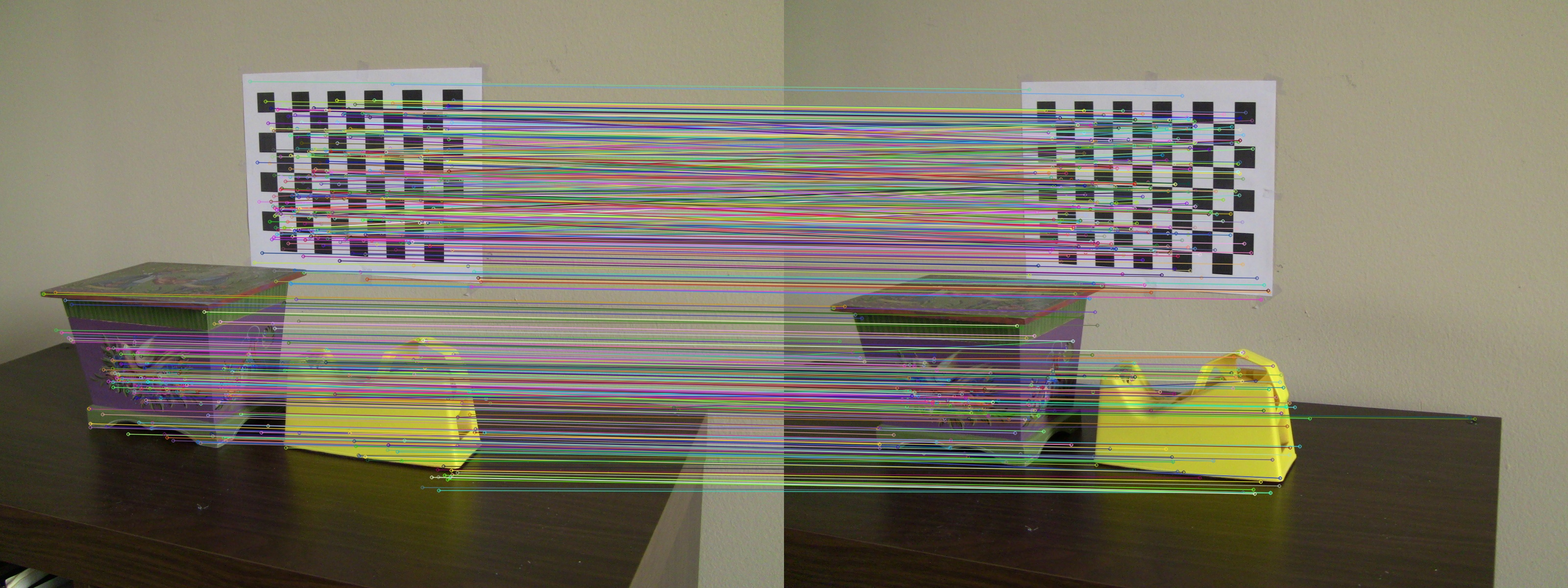
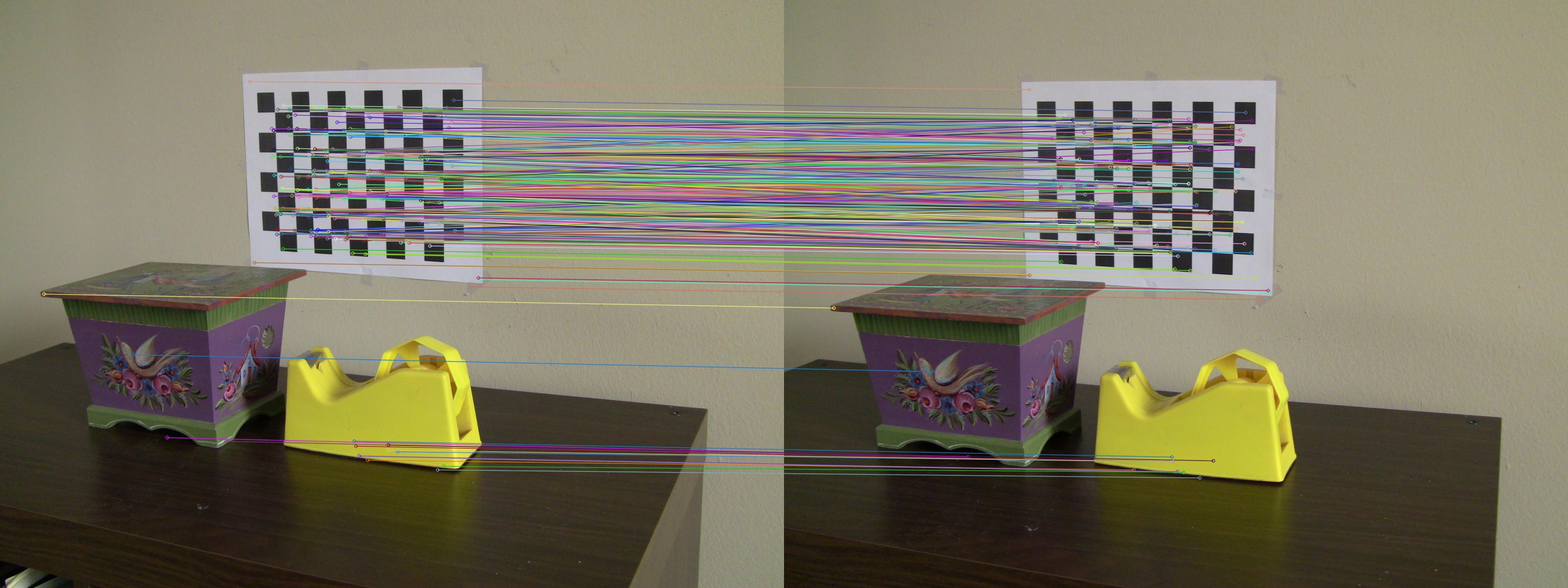
Add writeEpipolarLines() function

Changed region(s): [[0.0312, 0.1233, 0.8438, 0.8633]]

diff --git a/CameraCalibration2/Reconstruction.cpp b/CameraCalibration2/Reconstruction.cpp
@@ -91,6 +91,31 @@ Mat_<double> Reconstruction::normalizePoints(std::vector<Point2f>& pts, std::vec
 	return T;
 }
 
+void Reconstruction::writeEpipolarLines(char* filename, Mat& img, std::vector<Point2f>& pts1, Mat& F, std::vector<Point2f>& pts2, int whichImage) {
+	Mat tempImg;
+	flip(img, tempImg, 0);
+
+	std::vector<Vec3f> lines;
+	computeCorrespondEpilines(pts2, whichImage, F, lines);
+
+	for (int i = 0; i < lines.size(); ++i) {
+		int x1 = 0;
+		int y1 = -lines[i][2] / lines[i][1];
+		int x2 = tempImg.cols - 1;
+		int y2 = -(lines[i][0] + lines[i][2]) / lines[i][1];
+
+		Scalar color(i * 10 % 255, i * 20 % 255, i * 40 % 255);
+		cv::line(tempImg, Point(x1, y1), Point(x2, y2), color, 2);
+	}
+	for (int i = 0; i < pts1.size(); ++i) {
+		Scalar color(i * 10 % 255, i * 20 % 255, i * 40 % 255);
+		cv::circle(tempImg, pts1[i], 5, color, 3);
+	}
+
+	flip(tempImg, tempImg, 0);
+	imwrite(filename, tempImg);
+}
+
 Mat Reconstruction::computeEpipole(cv::Mat& F, int whichImage) {
 	cv::Mat e(3, 1, CV_64F);
 	if (whichImage == 1) {

diff --git a/CameraCalibration2/Reconstruction.h b/CameraCalibration2/Reconstruction.h
@@ -27,8 +27,9 @@ public:
 	Mat findFundamentalMat(std::vector<Point2f>& pts1, std::vector<Point2f>& pts2, std::vector<uchar>& status);
 	Mat_<double> computeFundamentalMatByEightPoints(std::vector<Point2f>& pts1, Mat_<double>& T1, std::vector<Point2f>& pts2, Mat_<double>& T2);
 	Mat_<double> normalizePoints(std::vector<Point2f>& pts, std::vector<Point2f>& normalized_pts);
+	void writeEpipolarLines(char* filename, Mat& img, std::vector<Point2f>& pts1, Mat& F, std::vector<Point2f>& pts2, int whichImage);
 
-	Mat computeEpipole(cv::Mat& F, int whichImage);
+	Mat computeEpipole(Mat& F, int whichImage);
 	void computeProjectionMat(Matx33d E, Mat_<double>& R1, Mat_<double>& T1, Mat_<double>& R2, Mat_<double>& T2);
 
 	double unprojectPoints(const Mat_<double>& K, const Mat_<double>& R1, const Mat_<double>& T1, const Mat_<double>& R2, const Mat_<double>& T2, const std::vector<cv::Point2f>& pts1, const std::vector<cv::Point2f>& pts2, std::vector<cv::Point3d>& pts3d, Mat_<double>& P1, Mat_<double>& P2);

diff --git a/CameraCalibration2/GeneratedFiles/ui_MainWindow.h b/CameraCalibration2/GeneratedFiles/ui_MainWindow.h
@@ -1,8 +1,8 @@
 /********************************************************************************
 ** Form generated from reading UI file 'MainWindow.ui'
 **
-** Created: Sun Feb 15 21:01:30 2015
-**      by: Qt User Interface Compiler version 4.8.1
+** Created: Mon Feb 16 14:57:18 2015
+**      by: Qt User Interface Compiler version 4.8.2
 **
 ** WARNING! All changes made in this file will be lost when recompiling UI file!
 ********************************************************************************/

diff --git a/CameraCalibration2/GeneratedFiles/qrc_MainWindow.cpp b/CameraCalibration2/GeneratedFiles/qrc_MainWindow.cpp
@@ -1,8 +1,8 @@
 /****************************************************************************
 ** Resource object code
 **
-** Created: Sun Feb 15 21:01:30 2015
-**      by: The Resource Compiler for Qt version 4.8.1
+** Created: Mon Feb 16 14:57:18 2015
+**      by: The Resource Compiler for Qt version 4.8.2
 **
 ** WARNING! All changes made in this file will be lost!
 *****************************************************************************/

diff --git a/CameraCalibration2/GLWidget3D.cpp b/CameraCalibration2/GLWidget3D.cpp
@@ -419,6 +419,9 @@ void GLWidget3D::reconstruct() {
 	reconstruction.sampson(F, pts[0], pts[1]);
 	//correctMatches(F, pts[0], pts[1], pts[0], pts[1]);
 
+	reconstruction.writeEpipolarLines("epipolar1.jpg", img[0], pts[0], F, pts[1], 2);
+	reconstruction.writeEpipolarLines("epipolar2.jpg", img[1], pts[1], F, pts[0], 1);
+
 	// Essential Matrixを計算する
 	cv::Mat_<double> E = K.t() * F * K;
 
